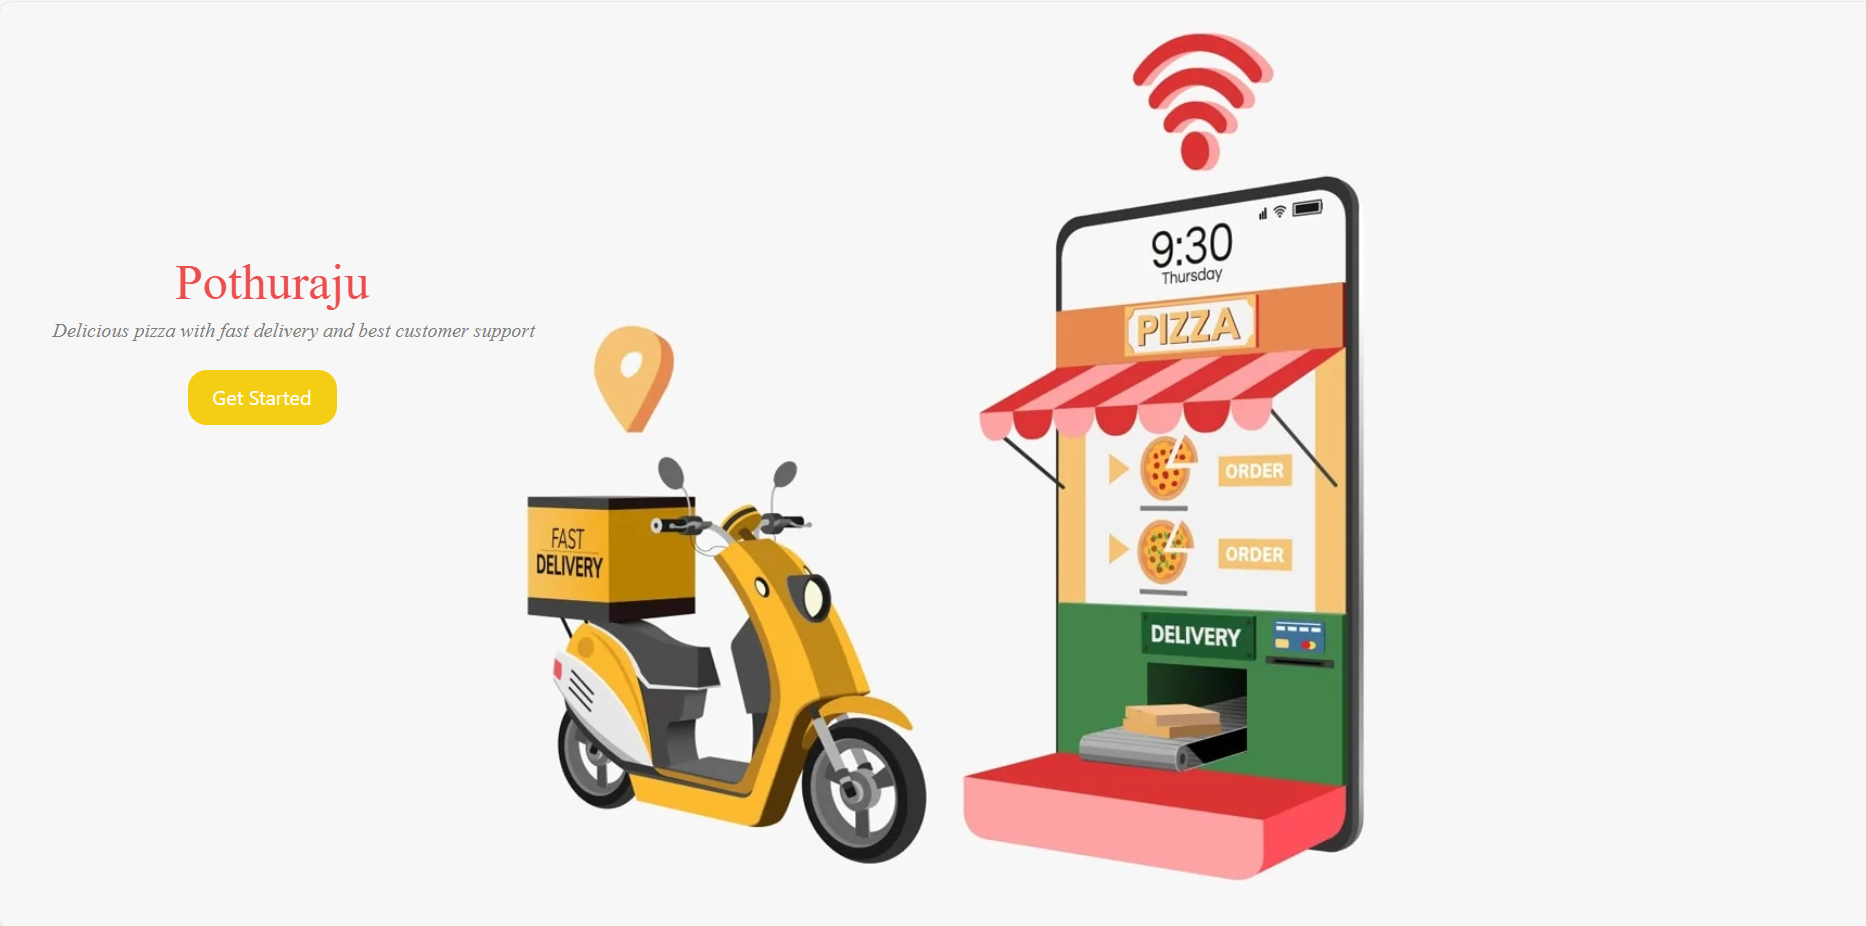
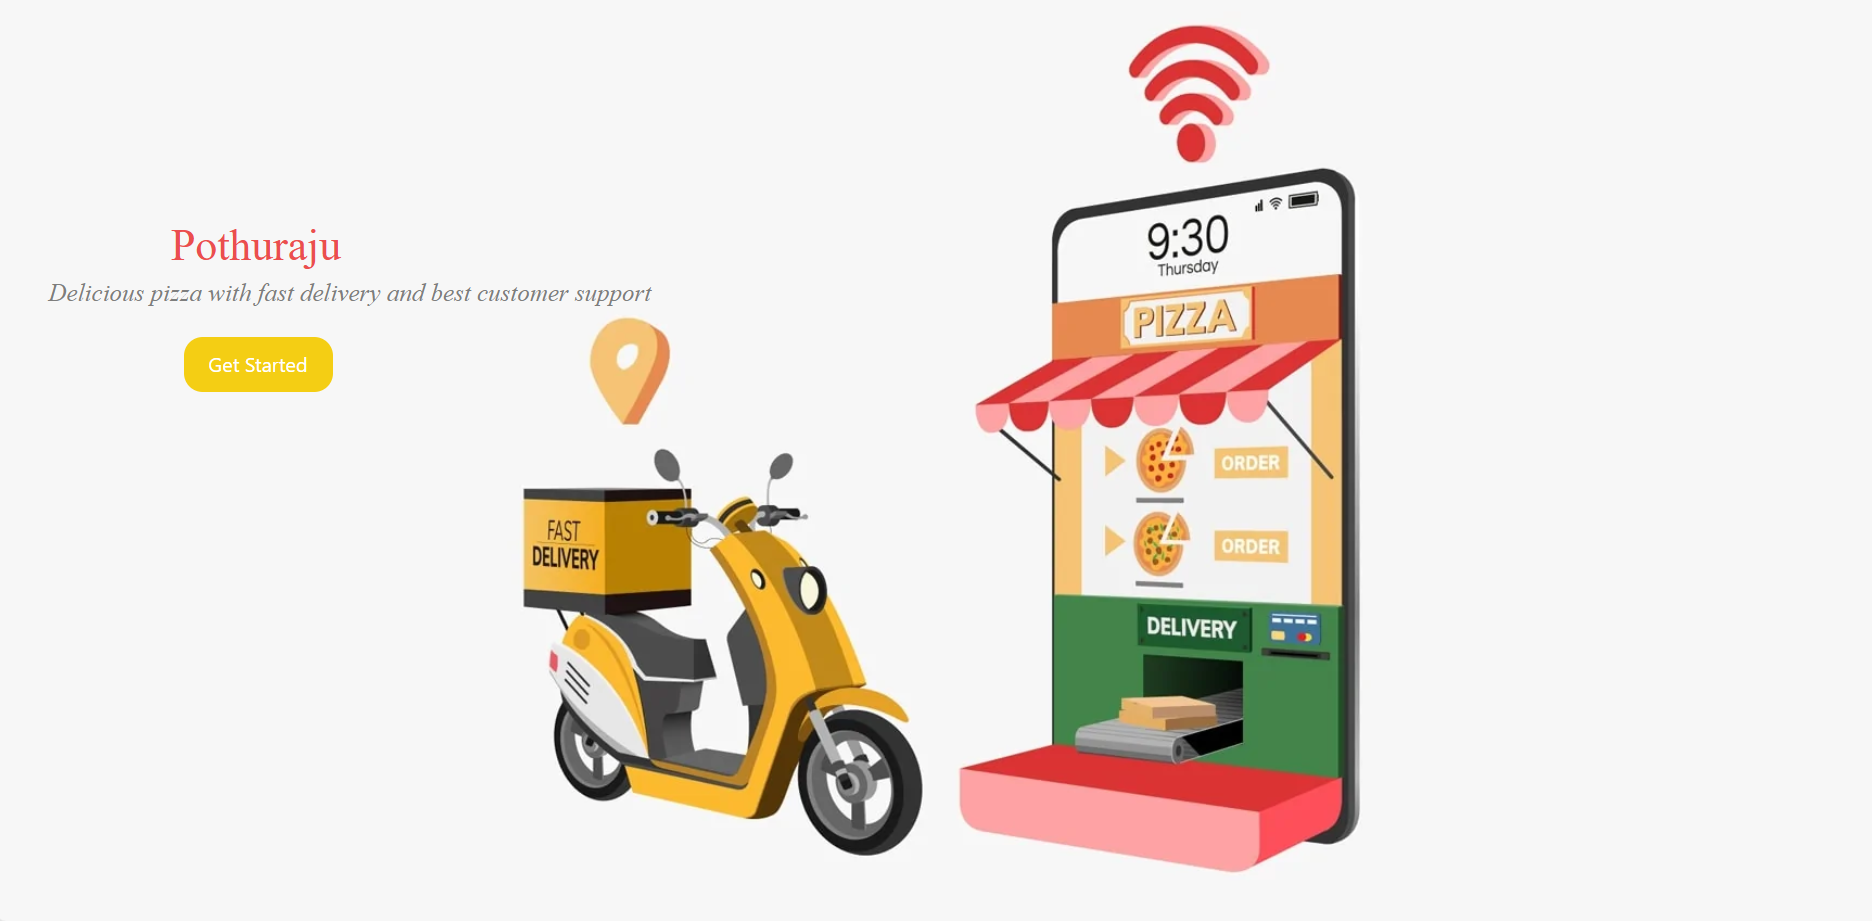
styling the home page and fix some internal bugs

Changed region(s): [[0.2797, 0.0304, 0.746, 0.9729], [0.0311, 0.2432, 0.373, 0.4864], [0.5595, 0.9121, 0.6217, 0.9425]]

diff --git a/src/component/Navbar.js b/src/component/Navbar.js
@@ -1,11 +1,9 @@
 import React, { useState, useEffect } from "react";
-import LandingPage from "../pages/LandingPage";
 
 import "../App.css";
 
-function Navbar({ setSignIn, setCartItems }) {
+function Navbar({ setSignIn, setShowCart }) {
   const [isLogin, setIsLogin] = useState(false);
-  const [home, setHome] = useState(false);
 
   useEffect(() => {
     const token = localStorage.getItem("token");
@@ -18,14 +16,12 @@ function Navbar({ setSignIn, setCartItems }) {
     localStorage.removeItem("token");
   };
 
-  return home ? (
-    <LandingPage />
-  ) : (
+  return (
     <>
-      <nav className="navbar navbar-expand-lg navbar-light bg-light">
-        <a className="navbar-brand">Pothuraju</a>
+      <nav className="navbar navbar-expand-lg navbar-light bg-warning">
+        <a className="navbar-brand text-danger font-weight-bold">Pothuraju</a>
         <button
-          className="navbar-toggler ml-auto"
+          className="navbar-toggler bg-warning"
           type="button"
           data-toggle="collapse"
           data-target="#navbarNavAltMarkup"
@@ -33,26 +29,26 @@ function Navbar({ setSignIn, setCartItems }) {
           aria-expanded="false"
           aria-label="Toggle navigation"
         >
-          <span className="navbar-toggler-icon"></span>
+          <span className="navbar-toggler-icon border-light"></span>
         </button>
         <div className="collapse navbar-collapse" id="navbarNavAltMarkup">
-          <div className="navbar-nav">
-            <a className="nav-link active" onClick={() => setHome(true)}>
+          <div className="navbar-nav m-auto">
+            <a className="nav-link active text-light font-weight-bold" onClick={() => setShowCart(false)}>
               Home <span className="sr-only">(current)</span>
             </a>
             {isLogin ? (
               <>
-                <a className="nav-link">Profile</a>
-                <a className="nav-link" onClick={() => setCartItems(true)}>
+                <a className="nav-link text-light font-weight-bold">Profile</a>
+                <a className="nav-link text-light font-weight-bold" onClick={() => setShowCart(true)}>
                   Cart
                 </a>
-                <a className="nav-link">MyOrders</a>
-                <a className="nav-link red" onClick={logOut}>
+                <a className="nav-link text-light font-weight-bold">MyOrders</a>
+                <a className="nav-link text-danger font-weight-bold" onClick={logOut}>
                   Sign Out
                 </a>
               </>
             ) : (
-              <a className="nav-link" onClick={() => setSignIn(true)}>
+              <a className="nav-link text-light font-weight-bold" onClick={() => setSignIn(true)}>
                 Sign In
               </a>
             )}

diff --git a/src/pages/LandingPage.js b/src/pages/LandingPage.js
@@ -7,20 +7,25 @@ import axios from "axios";
 import "./pages.css";
 
 function LandingPage() {
+  const initialItems = JSON.parse(localStorage.getItem("cart")) || [];
   const [signIn, setSignIn] = useState(false);
-  const [items, setItems] = useState([]);
-  const [filtered, setFiltered] = useState(items);
-  const [cartItems, setCartItems] = useState(false);
+  const [items, setItems] = useState(initialItems);
+  const [filtered, setFiltered] = useState([]);
+  const [showCart, setShowCart] = useState(false);
 
   useEffect(() => {
     const fetchData = async () => {
-      await axios.get("http://localhost:5001/items").then((res) => {
+      try {
+        const res = await axios.get("http://localhost:5001/items");
         setItems(res.data);
         setFiltered(res.data);
-      });
+      } catch (error) {
+        console.error("Error fetching items:", error);
+      }
     };
     fetchData();
   }, []);
+
   const displayAll = () => {
     setFiltered(items);
   };
@@ -37,12 +42,12 @@ function LandingPage() {
     <SignInPage setSignIn={setSignIn} />
   ) : (
     <div>
-      <Navbar setSignIn={setSignIn} setCartItems={setCartItems} />
-      {cartItems ? (
+      <Navbar setSignIn={setSignIn} setShowCart={setShowCart} />
+      {showCart ? (
         <Cart />
       ) : (
         <>
-          <div className="filter-buttons">
+          <div className="filter-buttons ml-lg-5 mt-5 pl-lg-5">
             <button onClick={displayAll}>All</button>
             <button onClick={displayVeg}>Veg</button>
             <button onClick={displayNonVeg}>Non Veg</button>

diff --git a/public/index.html b/public/index.html
@@ -25,12 +25,11 @@
       name="description"
       content="Web site created using create-react-app"
     />
-    <link rel="apple-touch-icon" href="%PUBLIC_URL%/logo192.png" />
+   
     <!--
       manifest.json provides metadata used when your web app is installed on a
       user's mobile device or desktop. See https://developers.google.com/web/fundamentals/web-app-manifest/
     -->
-    <link rel="manifest" href="%PUBLIC_URL%/manifest.json" />
     <!--
       Notice the use of %PUBLIC_URL% in the tags above.
       It will be replaced with the URL of the `public` folder during the build.
@@ -40,7 +39,7 @@
       work correctly both with client-side routing and a non-root public URL.
       Learn how to configure a non-root public URL by running `npm run build`.
     -->
-    <title>React App</title>
+    <title>Pothuraju</title>
   </head>
   <body>
     <noscript>You need to enable JavaScript to run this app.</noscript>

diff --git a/src/pages/pages.css b/src/pages/pages.css
@@ -91,10 +91,14 @@ p {
   .logo{
     text-align:left;
     margin-left:40px;
-    padding-top: 200px;
+    padding-top: 180px;
   }
   .logo h1{
     margin-left: 100px;
+    font-size:35px;
+  }
+  .logo p{
+    font-size:20px;
   }
   .start{
     text-align: left;
@@ -190,9 +194,7 @@ textarea {
   color: red;
 }
 
-/* Media queries for responsive design */
 
-/* Tablets and larger screens */
 @media (min-width: 768px) {
   .container {
     width: 70%;
@@ -209,7 +211,6 @@ textarea {
   }
 }
 
-/* Large screens (laptops/desktops) */
 @media (min-width: 1024px) {
   .container {
     width: 60%;

diff --git a/src/component/DisplayItems.js b/src/component/DisplayItems.js
@@ -1,9 +1,18 @@
 import React, { useState, useEffect } from "react";
 import "./items.css";
-import SignInPage from "../pages/SignInPage";
+
 
 function DisplayItems({ items }) {
-  const [cart, setCart] = useState([]);
+
+  const [cart, setCart] = useState(() => {
+    const savedCart = localStorage.getItem("cart");
+    try {
+      return savedCart ? JSON.parse(savedCart) : [];
+    } catch (e) {
+      console.error("Error parsing cart data from localStorage", e);
+      return [];
+    }
+  });
 
   const addCart = (item) => {
     setCart([...cart, item]);

diff --git a/src/component/items.css b/src/component/items.css
@@ -2,7 +2,7 @@
   display: flex;
   flex-wrap: wrap;
   gap: 20px;
-  width: 90%;
+  width: 90lvw;
   padding-top: 20px;
   background: white;
   margin: 20px auto;

diff --git a/README.md b/README.md
@@ -1,2 +1,10 @@
-![alt text](<Wellcome Page.png>)
+### Wellcome Page
+![alt text](<wellcome Page.png>)
 ![alt text](wellome_page.png)
+
+### Home Page
+### Display the Pizza Items
+![alt text](home.png)
+
+### Cart
+![alt text](cart.png)
